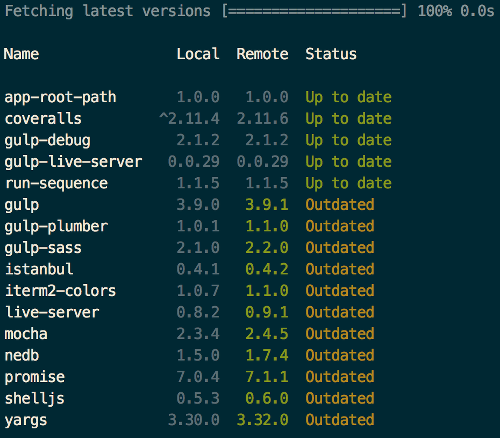
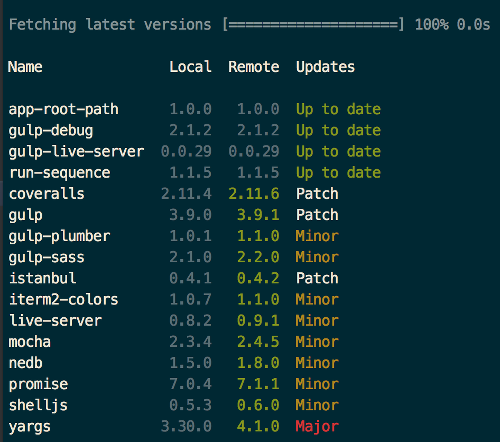
Finetuning of diff report and updated report screenshot

Changed region(s): [[0.0, 0.0, 0.99, 1.0]]

diff --git a/lib/depRep.js b/lib/depRep.js
@@ -12,11 +12,25 @@ var Promise = require('promise');
 var semver = require('semver');
 var semverDiff = require('semver-diff');
 var table = require('text-table');
+var toExact = require('to-exact-semver');
 
 var PROTOCOL_HTTPS = "https://";
 
 var bar;
 var updateReport = {};
+
+function colorizeDiff(diff) {
+    switch (diff) {
+        case 'major':
+            return chalk.red("Major");
+        case 'minor':
+            return chalk.yellow("Minor");
+        case 'patch':
+            return chalk.white("Patch");
+        default:
+            return diff;
+    }
+}
 
 /**
  * Fetches the latest version of the package from the registry
@@ -32,12 +46,12 @@ function getLatestVersion(packageName) {
             var spawn = require('child_process').spawn;
             var npm = spawn('npm', ['view', packageName, 'dist-tags', '--json']);
 
-            npm.stdout.on('data', function(data) {
+            npm.stdout.on('data', function (data) {
                 if (bar) bar.tick();
                 resolve(JSON.parse(data).latest);
             });
 
-            npm.stderr.on('data', function(err) {
+            npm.stderr.on('data', function (err) {
                 log(chalk.red("Something went wrong") + " when determining the latest version of " + chalk.cyan(packageName));
                 if (bar) bar.tick();
                 reject(err);
@@ -67,14 +81,13 @@ function getLatestVersions(packages) {
                     to: latestSemVer,
                     satisfied: semver.satisfies(latestSemVer, currentSemVer)
                 };
-
                 // Add the diff status if dependency no longer includes the latest version
                 if (!pkgObject.satisfied) {
                     try {
-                        pkgObject.diff = semverDiff(currentSemVer, latestSemVer);
+                        pkgObject.diff = semverDiff(toExact(currentSemVer), latestSemVer);
                     }
                     catch (err) {
-                        pkgObject.diff = "out of range"
+                        pkgObject.diff = "Out of range"
                     }
                 }
 
@@ -110,12 +123,20 @@ function exec(options, pkgJson) {
 
     // No dependencies defined?
     if (dependencies === {}) {
-        console.log("No deps, no dice! No dependencies were found in the given package.json");
+        log("No deps, no dice! No dependencies were found in the given package.json");
         return reject("No deps, no dice!");
     }
 
+    Object.keys(dependencies).forEach(function (dependency) {
+        // Bare bones prune for git or http dependencies
+        if (dependencies[dependency].indexOf("http") > -1 || dependencies[dependency].indexOf("git") > -1) {
+            log('Pruned ' + dependency + ' from the dep-rep check.');
+            delete dependencies[dependency];
+        }
+    });
+
     if (!options.silent) {
-        console.log();
+        log();
         bar = new ProgressBar('Fetching latest versions [:bar] :percent :etas', {
             complete: '=',
             incomplete: ' ',
@@ -123,13 +144,6 @@ function exec(options, pkgJson) {
             total: Object.keys(dependencies).length
         });
     }
-
-    Object.keys(dependencies).forEach(function (dependency) {
-        // Bare bones prune for git or http dependencies
-        if (dependencies[dependency].indexOf("http") > -1 || dependencies[dependency].indexOf("git") > -1) {
-            delete dependencies[dependency];
-        }
-    });
 
     return getLatestVersions(dependencies)
 }
@@ -203,7 +217,7 @@ function report(result) {
         chalk.white("Name"),
         chalk.white("Local"),
         chalk.white("Remote"),
-        chalk.white("Status"));
+        chalk.white("Updates"));
 
     tbl.push(header, []);
 
@@ -226,22 +240,21 @@ function report(result) {
         unsatisfied.forEach(function (pkg) {
             var row = [];
 
-            semverDiff(pkg.from, pkg.to);
             row.push(
                 chalk.white(pkg.name),
                 chalk.grey(pkg.from),
                 chalk.green(pkg.to),
-                chalk.yellow("Outdated"));
+                colorizeDiff(pkg.diff));
 
             tbl.push(row);
         });
 
-        console.log(table(tbl, {align: ['l', 'r', 'r', 'l']}));
+        log(table(tbl, {align: ['l', 'r', 'r', 'l']}));
     } else {
-        console.log(table(tbl, {align: ['l', 'r', 'r', 'l']}));
-        console.log(chalk.green("\nAll your dependencies are up to date ") + chalk.white(":") + chalk.red("o") + chalk.white(")"))
+        log(table(tbl, {align: ['l', 'r', 'r', 'l']}));
+        log(chalk.green("\nAll your dependencies are up to date ") + chalk.white(":") + chalk.red("o") + chalk.white(")"))
     }
-    console.log();
+    log();
 }
 
 module.exports = {
